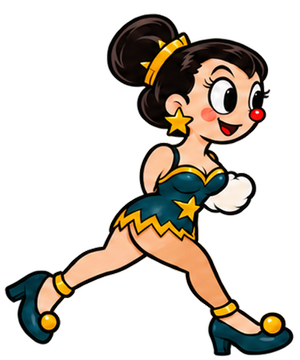
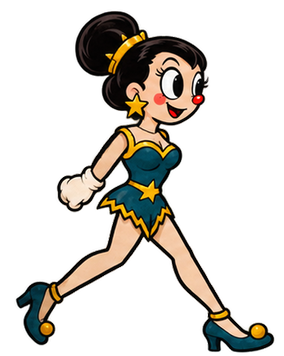
feat: nova corrida da acrobata (alta e esguia) e ferramenta para arrumar folhas fora da grade

diff --git a/docs/personagens-visuais.md b/docs/personagens-visuais.md
@@ -64,3 +64,14 @@ de cada quadro, então a mira em 8 direções e o recuo do tiro funcionam igual.
 Para as próximas folhas, pedir também: **o braço livre sempre atrás do corpo** (na corrida atual
 ele às vezes passa na frente do peito, ao lado da mão com a arma) e **a mesma escala e linha do
 chão** da folha da corrida.
+
+### Folha que não respeitou a grade
+
+Se a IA entregar a folha em outro tamanho ou com os personagens encostando nas bordas / com o
+chão em alturas diferentes (aconteceu com a 2ª corrida da acrobata), `tools/normalize_sheet.gd`
+separa cada personagem pelo contorno (a partir do nariz vermelho), iguala a escala e remonta a
+grade 4 × 2 de 512 px com o chão em y = 486 e o nariz em x = 400:
+
+```
+Godot --headless --script res://tools/normalize_sheet.gd -- <entrada.png> <saída.png> [altura]
+```
